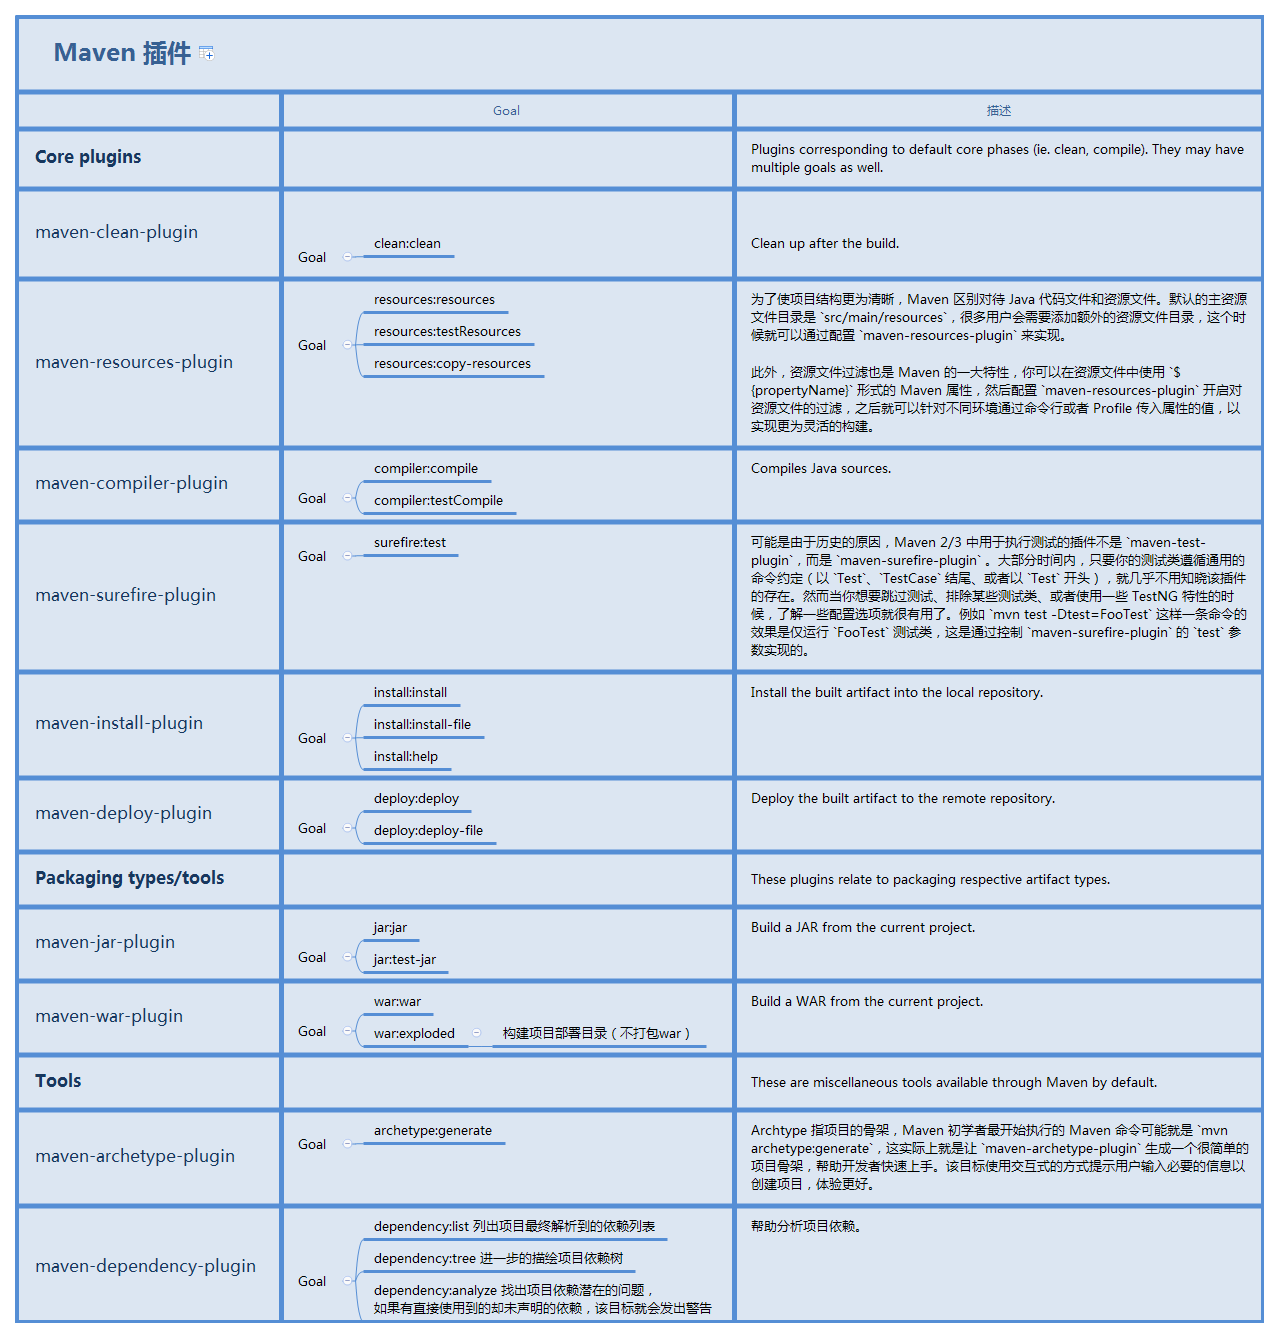
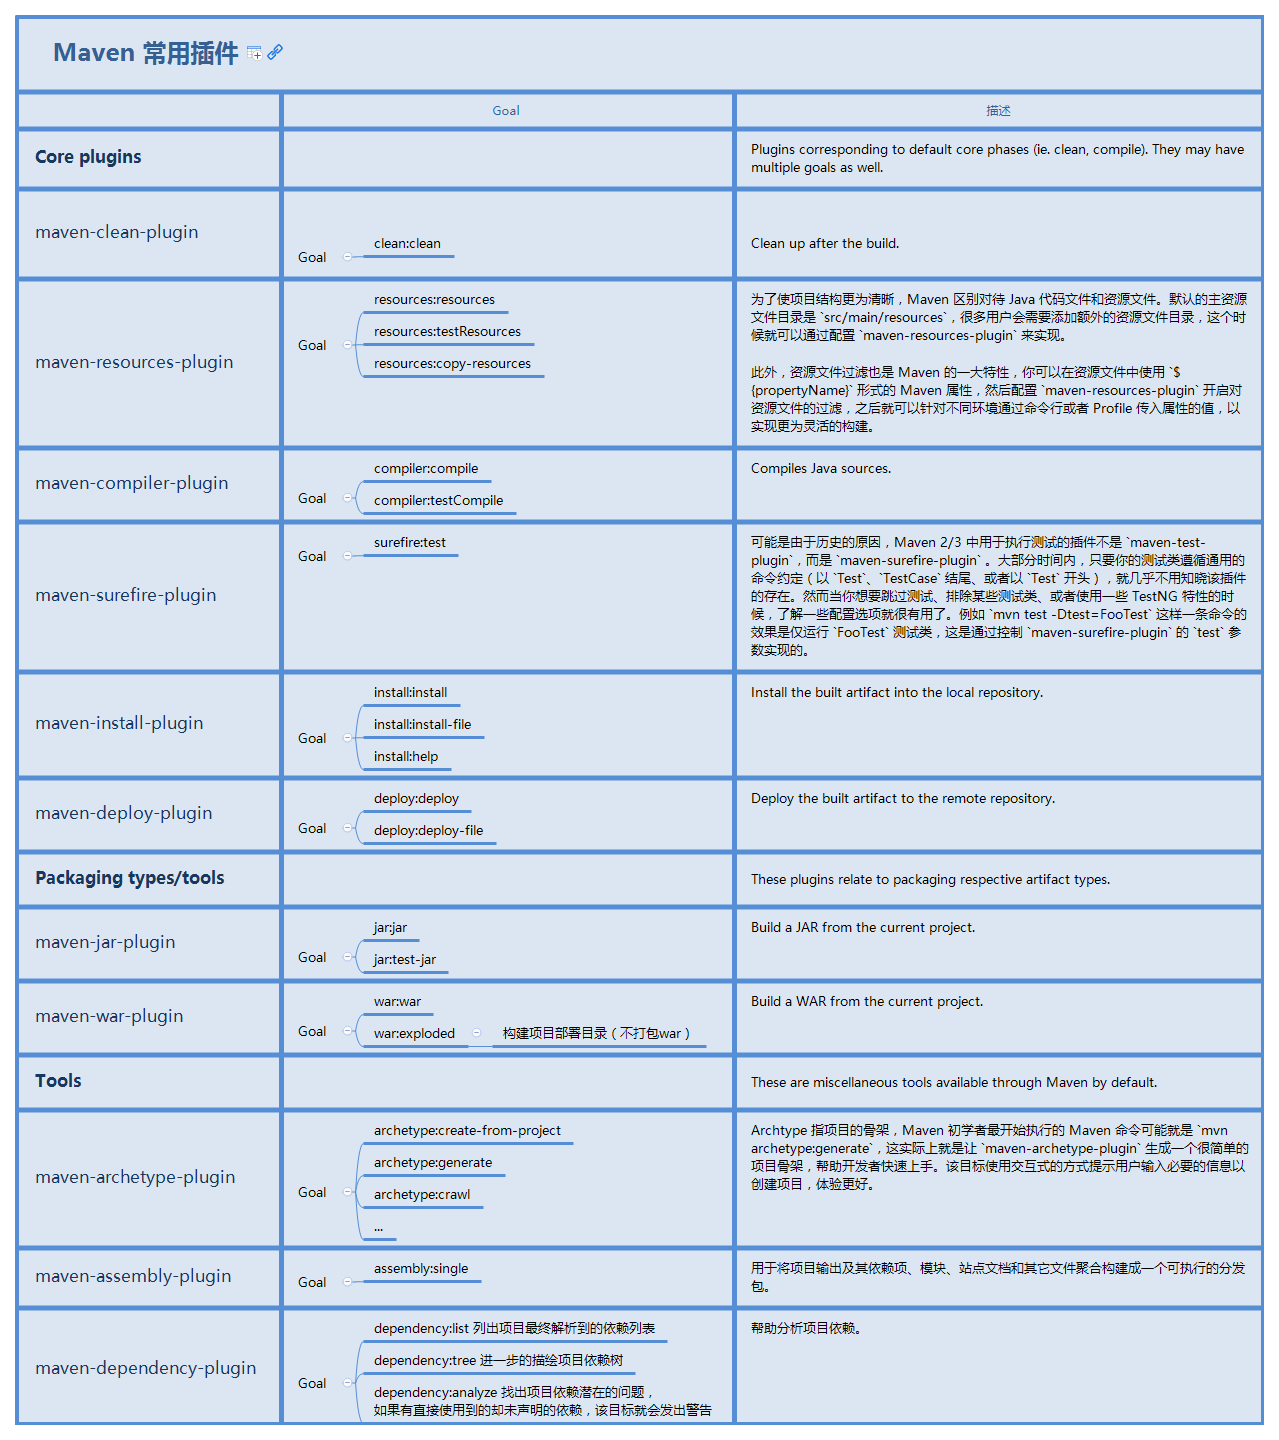
更新 Maven 依赖，补充插件 maven-assembly-plugin

Changed region(s): [[0.0, 0.0, 1.0, 1.0], [0.0305, 0.2451, 0.183, 0.2758]]

diff --git a/source/_posts/maven-dependencies.md b/source/_posts/maven-dependencies.md
@@ -3,7 +3,7 @@ title: Maven 实战系列（二）依赖关系总结
 date: 2018-04-20 20:41:43
 updated:
 tags: Java
-
+typora-root-url: ..
 ---
 
 # 依赖关系
@@ -19,13 +19,13 @@ tags: Java
     …
     <dependencies>
         <dependency>
-            <groupId>…</groupId>    <!-- 依赖的构件属组 -->
+            <groupId>…</groupId>        <!-- 依赖的构件属组 -->
             <artifactId>…</artifactId>  <!-- 依赖的构件ID -->
-            <version>…</version>    <!-- 依赖的构件版本 -->
-            <type>…</type>          <!-- 依赖类型，默认值为 jar -->
-            <scope>…</scope>        <!-- 依赖范围 -->
-            <optional>…</optional>  <!-- 可选依赖 -->
-            <exclusions>            <!-- 排除(传递性)依赖 -->
+            <version>…</version>        <!-- 依赖的构件版本 -->
+            <type>…</type>              <!-- 依赖类型，默认值为 jar -->
+            <scope>…</scope>            <!-- 依赖范围 -->
+            <optional>…</optional>      <!-- 可选依赖 -->
+            <exclusions>                <!-- 排除(传递性)依赖 -->
                 <exclusion>…</exclusion>
                 …
             </exclusions>
@@ -35,18 +35,6 @@ tags: Java
     …
 </project>
 ```
-
-## 依赖范围
-
-依赖范围 `scope` 用于控制依赖与这三种 classpath（编译、测试、运行）的关系，即是否有效：
-
-| 依赖范围（Scope） | 编译classpath | 测试classpath | 运行classpath | 例子                                       |
-| ----------- | ----------- | ----------- | ----------- | ---------------------------------------- |
-| compile     | √           | √           | √           | spring-core                              |
-| test        | ×           | √           | ×           | spring-test、junit、mockito                |
-| provided    | √           | √           | ×           | servlet-api（运行时，由于容器如tomcat已经提供，无须重复引入）  |
-| runtime     | ×           | √           | √           | JDBC 驱动实现（编译时，只需 JDK 提供的 JDBC 接口；运行时，才需要接口的具体实现） |
-| system      | √           | √           | ×           | 本地的，Maven 仓库之外的类库文件                      |
 
 ## 依赖传递
 
@@ -63,11 +51,24 @@ Maven 调解依赖有两个基本原则：
 2. 第二原则：**第一声明者优先**。
    在依赖路径长度相等的前提下，在 POM 中，依赖声明的顺序决定了谁会先被解析使用。
 
-## 可选依赖
+## 依赖范围 scope
+
+依赖范围 `scope` 用于控制依赖与这三种 classpath（编译、测试、运行）的关系，即是否有效：
+
+| 依赖范围（Scope） | 编译classpath | 测试classpath | 运行classpath | 例子                                                         |
+| ----------------- | ------------- | ------------- | ------------- | ------------------------------------------------------------ |
+| `compile`         | √             | √             | √             | spring-core                                                  |
+| `test`            | ×             | √             | ×             | spring-test、junit、mockito                                  |
+| `provided`        | √             | √             | ×             | servlet-api（运行时，由于容器如tomcat已经提供，无须重复引入） |
+| `runtime`         | ×             | √             | √             | JDBC 驱动实现（编译时，只需 JDK 提供的 JDBC 接口；运行时，才需要接口的具体实现） |
+| `system`          | √             | √             | ×             | 本地的，Maven 仓库之外的类库文件                             |
+| `import`          | /             | /             | /             | Maven 2.0.9 版本后出的属性，`import` 只能在 `dependencyManagement` 的中使用，能解决 Maven 单继承问题，`import` 依赖关系实际上并不参与限制依赖关系的传递性。 |
+
+## 可选依赖 optional
 
 可选依赖 `optional` 为 `true` 时，该依赖不会被传递进来。
 
-## 依赖排除
+## 依赖排除 exclusions
 
 当传递性依赖的结果不是自己预期的构件版本，可以排除依赖重新自定义。下例展示了使用 `<exclusions>` 排除 A 的传递性依赖 C，并显式声明依赖 C(1.10)：
 
